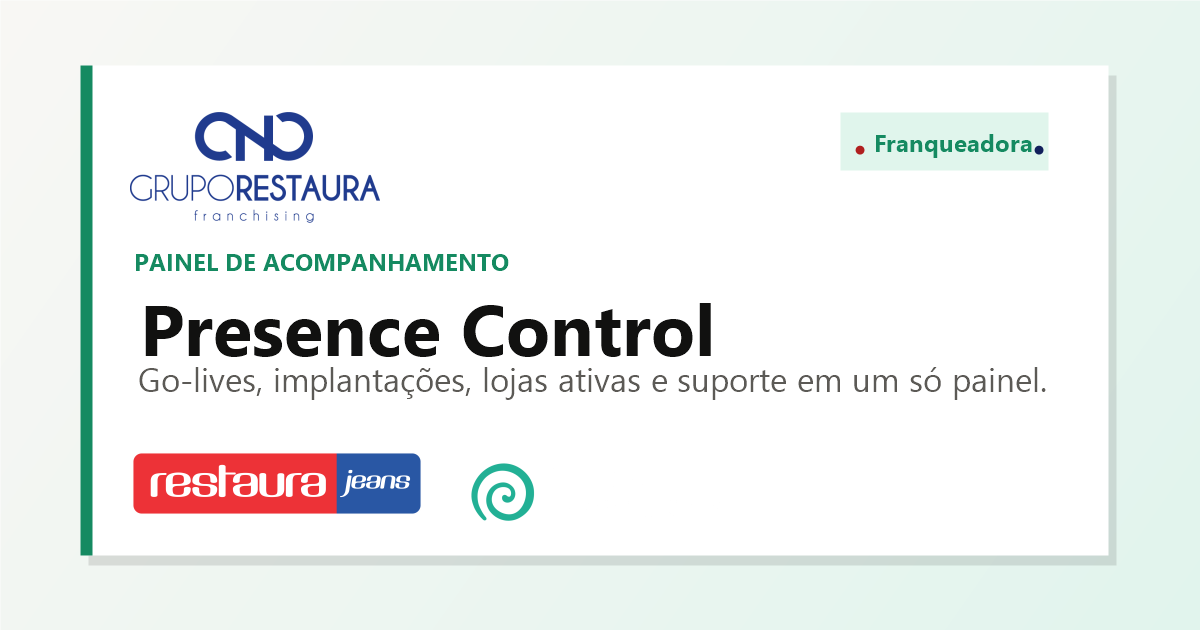
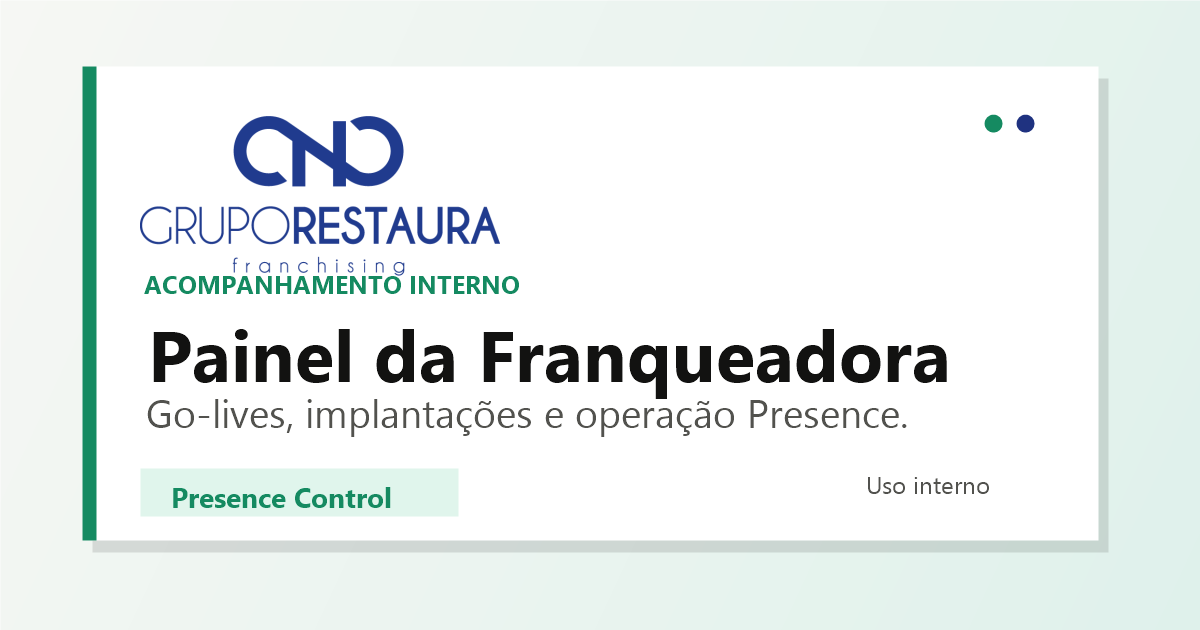
Ajusta preview interno de compartilhamento

Changed region(s): [[0.0617, 0.0905, 0.9558, 0.9048], [0.7092, 0.754, 0.8325, 0.7841]]

diff --git a/admin.html b/admin.html
@@ -4,23 +4,23 @@
 <meta charset="UTF-8">
 <meta name="viewport" content="width=device-width,initial-scale=1.0">
 <title>Presence Control</title>
-<meta name="description" content="Painel de acompanhamento de go-lives, implantações, lojas ativas e suporte da franqueadora.">
+<meta name="description" content="Painel interno da franqueadora para acompanhamento de go-lives, implantações e operação Presence.">
 <link rel="canonical" href="https://douglasdbs1.github.io/presence-control/">
 <meta property="og:type" content="website">
 <meta property="og:locale" content="pt_BR">
 <meta property="og:site_name" content="Presence Control">
 <meta property="og:title" content="Presence Control">
-<meta property="og:description" content="Painel de acompanhamento de go-lives, implantações, lojas ativas e suporte da franqueadora.">
+<meta property="og:description" content="Painel interno da franqueadora para acompanhamento de go-lives, implantações e operação Presence.">
 <meta property="og:url" content="https://douglasdbs1.github.io/presence-control/">
 <meta property="og:image" content="https://douglasdbs1.github.io/presence-control/og-image.png">
 <meta property="og:image:secure_url" content="https://douglasdbs1.github.io/presence-control/og-image.png">
 <meta property="og:image:type" content="image/png">
 <meta property="og:image:width" content="1200">
 <meta property="og:image:height" content="630">
-<meta property="og:image:alt" content="Presence Control - painel de acompanhamento da franqueadora">
+<meta property="og:image:alt" content="Presence Control - painel interno da franqueadora">
 <meta name="twitter:card" content="summary_large_image">
 <meta name="twitter:title" content="Presence Control">
-<meta name="twitter:description" content="Painel de acompanhamento de go-lives, implantações, lojas ativas e suporte da franqueadora.">
+<meta name="twitter:description" content="Painel interno da franqueadora para acompanhamento de go-lives, implantações e operação Presence.">
 <meta name="twitter:image" content="https://douglasdbs1.github.io/presence-control/og-image.png">
 <link href="https://fonts.googleapis.com/css2?family=Montserrat:wght@400;500;600;700;800&display=swap" rel="stylesheet">
 <link href="https://cdnjs.cloudflare.com/ajax/libs/font-awesome/6.5.2/css/all.min.css" rel="stylesheet">

diff --git a/index.html b/index.html
@@ -4,23 +4,23 @@
 <meta charset="UTF-8">
 <meta name="viewport" content="width=device-width,initial-scale=1.0">
 <title>Presence Control</title>
-<meta name="description" content="Painel de acompanhamento de go-lives, implantações, lojas ativas e suporte da franqueadora.">
+<meta name="description" content="Painel interno da franqueadora para acompanhamento de go-lives, implantações e operação Presence.">
 <link rel="canonical" href="https://douglasdbs1.github.io/presence-control/">
 <meta property="og:type" content="website">
 <meta property="og:locale" content="pt_BR">
 <meta property="og:site_name" content="Presence Control">
 <meta property="og:title" content="Presence Control">
-<meta property="og:description" content="Painel de acompanhamento de go-lives, implantações, lojas ativas e suporte da franqueadora.">
+<meta property="og:description" content="Painel interno da franqueadora para acompanhamento de go-lives, implantações e operação Presence.">
 <meta property="og:url" content="https://douglasdbs1.github.io/presence-control/">
 <meta property="og:image" content="https://douglasdbs1.github.io/presence-control/og-image.png">
 <meta property="og:image:secure_url" content="https://douglasdbs1.github.io/presence-control/og-image.png">
 <meta property="og:image:type" content="image/png">
 <meta property="og:image:width" content="1200">
 <meta property="og:image:height" content="630">
-<meta property="og:image:alt" content="Presence Control - painel de acompanhamento da franqueadora">
+<meta property="og:image:alt" content="Presence Control - painel interno da franqueadora">
 <meta name="twitter:card" content="summary_large_image">
 <meta name="twitter:title" content="Presence Control">
-<meta name="twitter:description" content="Painel de acompanhamento de go-lives, implantações, lojas ativas e suporte da franqueadora.">
+<meta name="twitter:description" content="Painel interno da franqueadora para acompanhamento de go-lives, implantações e operação Presence.">
 <meta name="twitter:image" content="https://douglasdbs1.github.io/presence-control/og-image.png">
 <link href="https://fonts.googleapis.com/css2?family=Montserrat:wght@400;500;600;700;800&display=swap" rel="stylesheet">
 <link href="https://cdnjs.cloudflare.com/ajax/libs/font-awesome/6.5.2/css/all.min.css" rel="stylesheet">